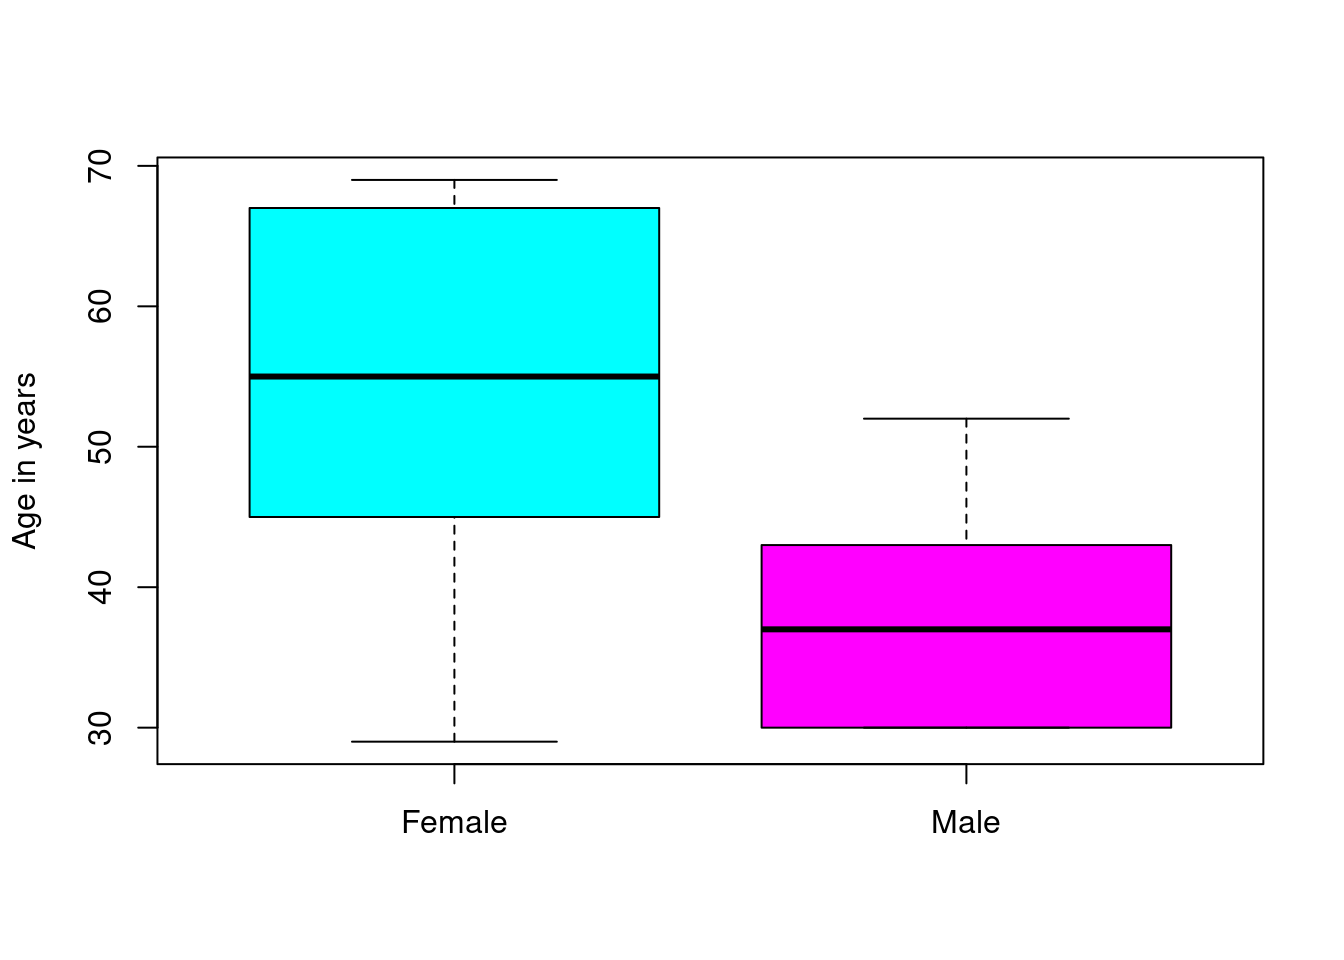
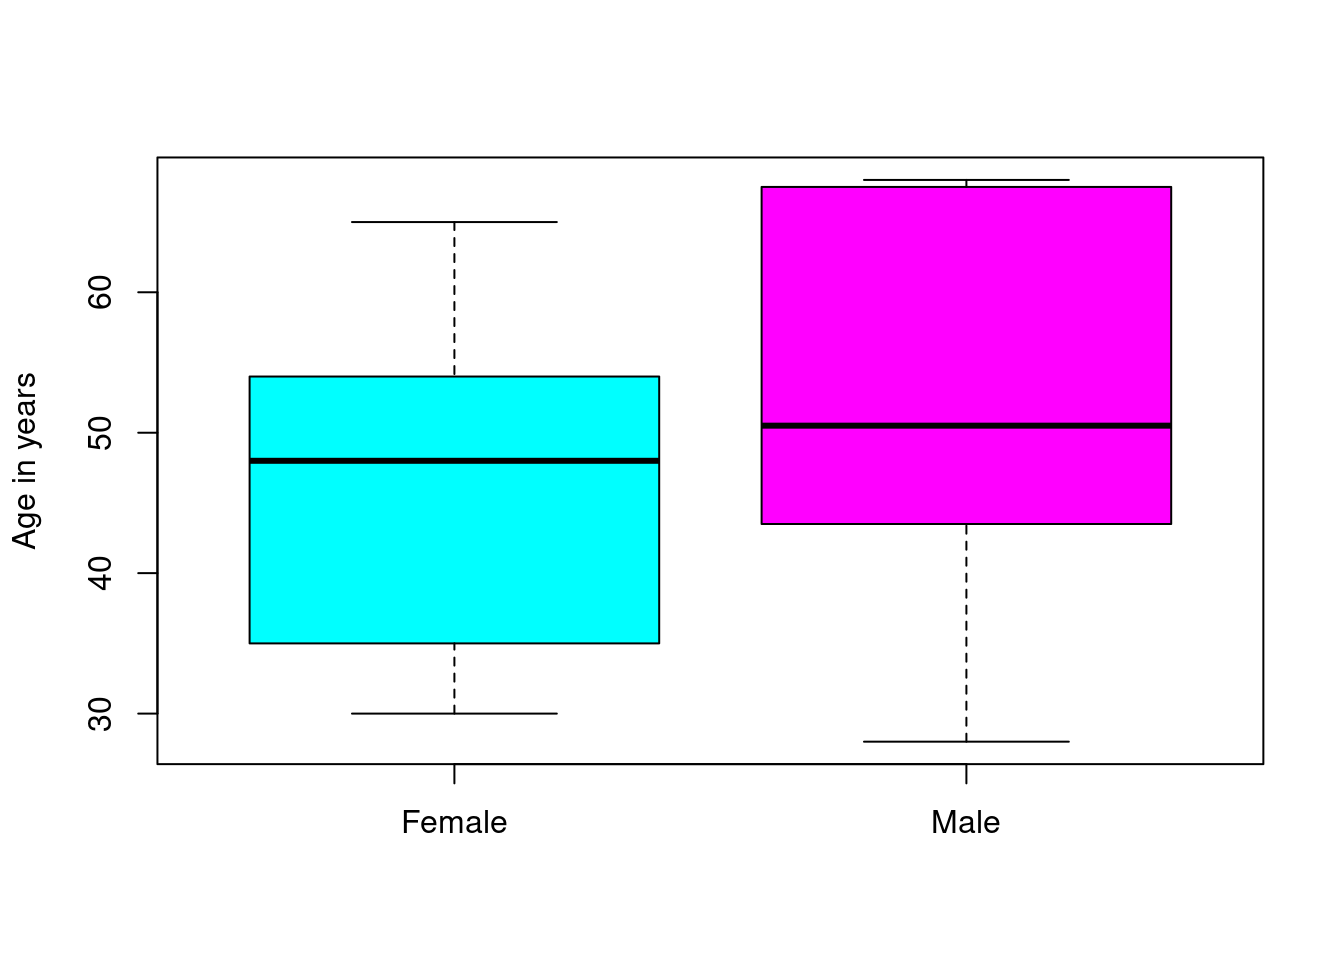
pieni päivityd

diff --git a/content/post/2020-10-29-hetu.en/index.html b/content/post/2020-10-29-hetu.en/index.html
@@ -178,15 +178,15 @@ code span.wa { color: #8f5902; font-weight: bold; font-style: italic; } /* Warni
 <span id="cb18-2"><a href="#cb18-2" aria-hidden="true" tabindex="-1"></a><span class="co"># Age in years</span></span>
 <span id="cb18-3"><a href="#cb18-3" aria-hidden="true" tabindex="-1"></a><span class="fu">hetu_age</span>(example_pins2)</span></code></pre></div>
 <pre><code>## The age in years has been calculated at 2021-01-29.</code></pre>
-<pre><code>## [1] 35 58 50 60 52</code></pre>
+<pre><code>## [1] 69 34 66 61 61</code></pre>
 <div class="sourceCode" id="cb21"><pre class="sourceCode r"><code class="sourceCode r"><span id="cb21-1"><a href="#cb21-1" aria-hidden="true" tabindex="-1"></a><span class="co"># Age in months</span></span>
 <span id="cb21-2"><a href="#cb21-2" aria-hidden="true" tabindex="-1"></a><span class="fu">hetu_age</span>(example_pins2, <span class="at">timespan =</span> <span class="st">&quot;months&quot;</span>)</span></code></pre></div>
 <pre><code>## The age in months has been calculated at 2021-01-29.</code></pre>
-<pre><code>## [1] 421 701 608 725 632</code></pre>
+<pre><code>## [1] 834 408 801 732 735</code></pre>
 <div class="sourceCode" id="cb24"><pre class="sourceCode r"><code class="sourceCode r"><span id="cb24-1"><a href="#cb24-1" aria-hidden="true" tabindex="-1"></a><span class="co"># Age in 2011</span></span>
 <span id="cb24-2"><a href="#cb24-2" aria-hidden="true" tabindex="-1"></a><span class="fu">hetu_age</span>(example_pins2, <span class="at">date =</span> <span class="st">&quot;2011-01-01&quot;</span>)</span></code></pre></div>
 <pre><code>## The age in years has been calculated at 2011-01-01.</code></pre>
-<pre><code>## [1] 25 48 40 50 42</code></pre>
+<pre><code>## [1] 59 24 56 50 51</code></pre>
 <div class="sourceCode" id="cb27"><pre class="sourceCode r"><code class="sourceCode r"><span id="cb27-1"><a href="#cb27-1" aria-hidden="true" tabindex="-1"></a><span class="co"># Visualization: boxplot grouped by sex</span></span>
 <span id="cb27-2"><a href="#cb27-2" aria-hidden="true" tabindex="-1"></a>example_pins3 <span class="ot">&lt;-</span> <span class="fu">rhetu</span>(<span class="dv">20</span>, <span class="at">start =</span> <span class="st">&quot;1950-01-01&quot;</span>, <span class="at">end =</span> <span class="st">&quot;1995-05-07&quot;</span>, <span class="at">p.male =</span> <span class="fl">0.5</span>)</span>
 <span id="cb27-3"><a href="#cb27-3" aria-hidden="true" tabindex="-1"></a><span class="fu">boxplot</span>(<span class="fu">hetu_age</span>(example_pins3)<span class="sc">~</span><span class="fu">hetu_sex</span>(example_pins3), <span class="at">xlab =</span> <span class="st">&quot;&quot;</span>, <span class="at">ylab =</span> <span class="st">&quot;Age in years&quot;</span>, <span class="at">col=</span><span class="fu">c</span>(<span class="st">&quot;cyan&quot;</span>, <span class="st">&quot;magenta&quot;</span>))</span></code></pre></div>
@@ -213,7 +213,7 @@ code span.wa { color: #8f5902; font-weight: bold; font-style: italic; } /* Warni
 </ul>
 <div class="sourceCode" id="cb33"><pre class="sourceCode r"><code class="sourceCode r"><span id="cb33-1"><a href="#cb33-1" aria-hidden="true" tabindex="-1"></a>example_bids <span class="ot">&lt;-</span> <span class="fu">rbid</span>(<span class="dv">2</span>)</span>
 <span id="cb33-2"><a href="#cb33-2" aria-hidden="true" tabindex="-1"></a>example_bids</span></code></pre></div>
-<pre><code>## [1] &quot;1408502-5&quot; &quot;6995046-9&quot;</code></pre>
+<pre><code>## [1] &quot;3946204-2&quot; &quot;8616400-5&quot;</code></pre>
 <div class="sourceCode" id="cb35"><pre class="sourceCode r"><code class="sourceCode r"><span id="cb35-1"><a href="#cb35-1" aria-hidden="true" tabindex="-1"></a><span class="fu">bid_ctrl</span>(example_bids)</span></code></pre></div>
 <pre><code>## [1] TRUE TRUE</code></pre>
 <p>No additional information can be extracted from BIDs.</p>

diff --git a/content/post/2021-01-28-pxweb-kartalla/index.fi.html b/content/post/2021-01-28-pxweb-kartalla/index.fi.html
@@ -1,6 +1,7 @@
 ---
 title:  "PXWeb-tilastot kartalla"
 date: 2021-01-28 10:02:45
+author: "Markus Kainu"
 slug: "pxweb_geofi"
 categories:
   - R
